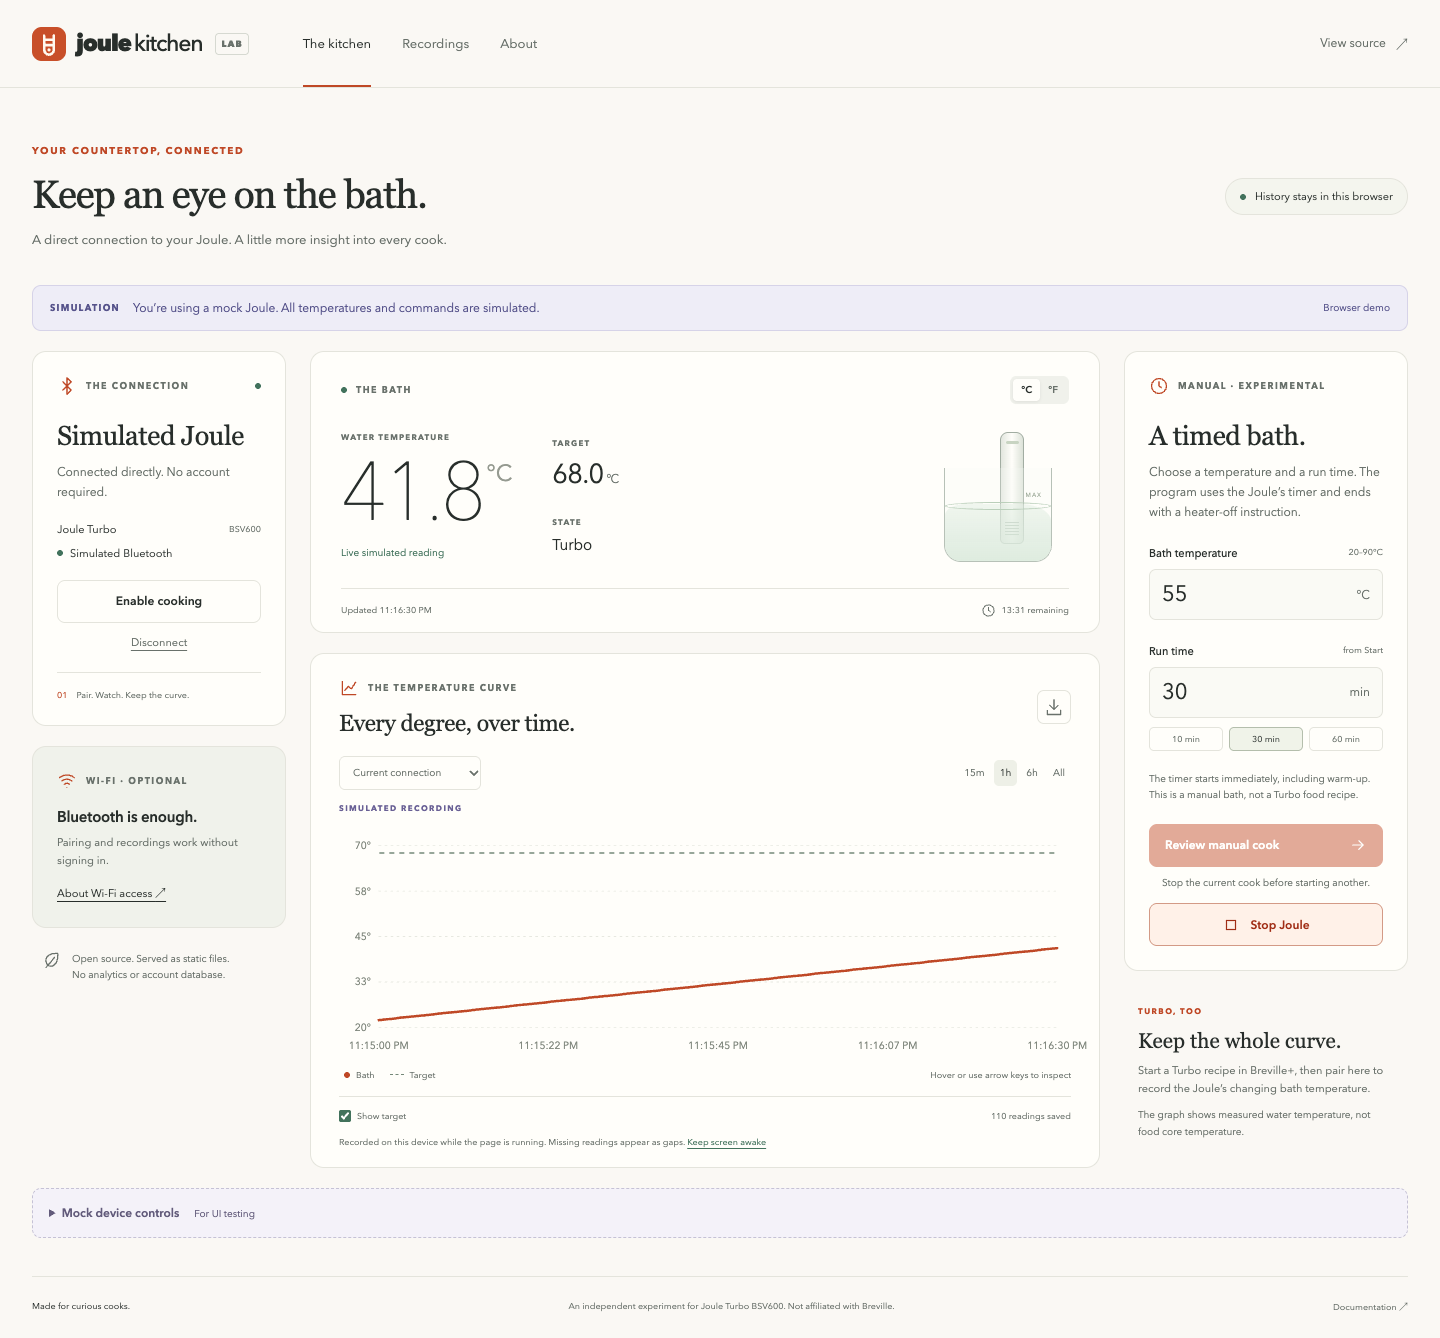
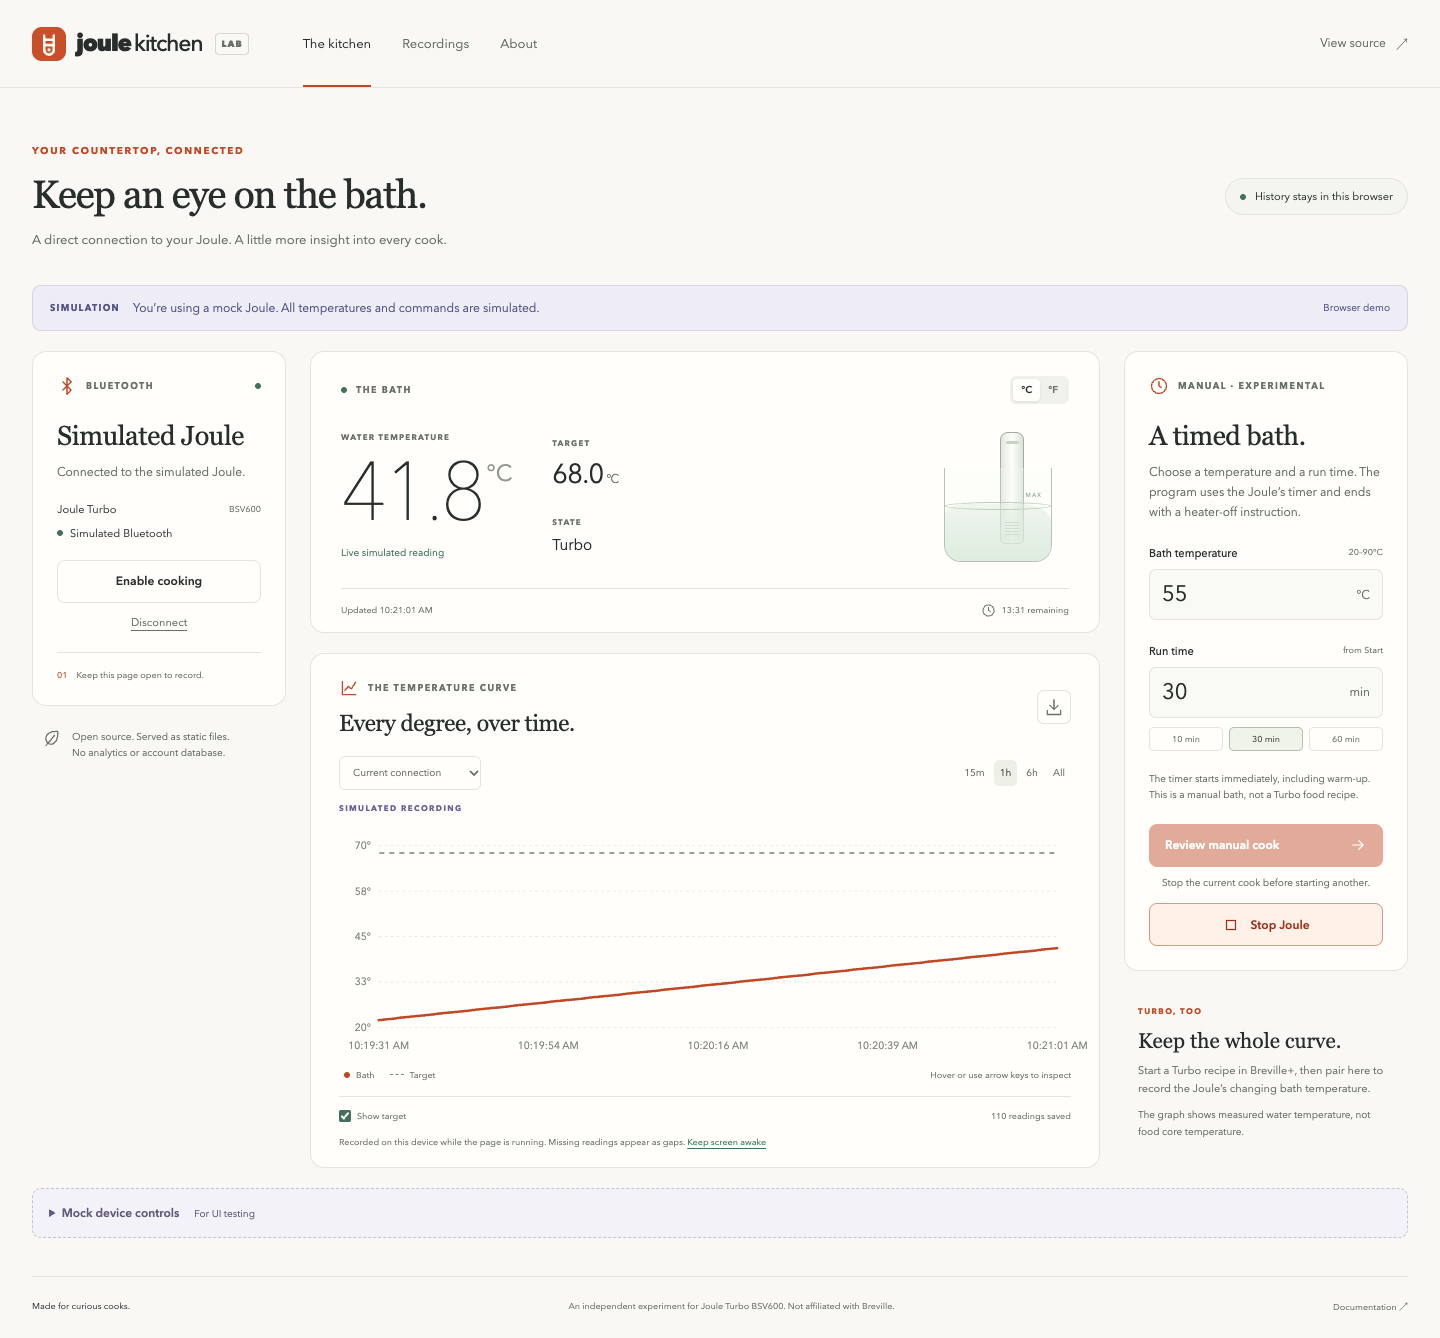
Show Bluetooth as the website connection method

diff --git a/src/App.tsx b/src/App.tsx
@@ -27,16 +27,7 @@ function Icon({
   size = 20,
 }: {
   name:
-    | 'bluetooth'
-    | 'chart'
-    | 'arrow'
-    | 'download'
-    | 'stop'
-    | 'clock'
-    | 'close'
-    | 'check'
-    | 'wifi'
-    | 'leaf';
+    'bluetooth' | 'chart' | 'arrow' | 'download' | 'stop' | 'clock' | 'close' | 'check' | 'leaf';
   size?: number;
 }) {
   const paths = {
@@ -48,7 +39,6 @@ function Icon({
     clock: 'M12 7v5l3 2M21 12a9 9 0 1 1-18 0 9 9 0 0 1 18 0',
     close: 'm6 6 12 12M6 18 18 6',
     check: 'm5 12 4 4L19 6',
-    wifi: 'M3 8a14 14 0 0 1 18 0M6 12a9 9 0 0 1 12 0M9 16a4 4 0 0 1 6 0M12 20h.01',
     leaf: 'M20 3C8 2 2 9 6 16s15 3 14-13ZM5 21 16 8',
   };
   return (
@@ -92,7 +82,6 @@ export default function App() {
   const [minutes, setMinutes] = useState(30);
   const [reviewing, setReviewing] = useState(false);
   const [waterConfirmed, setWaterConfirmed] = useState(false);
-  const [cloudOpen, setCloudOpen] = useState(false);
   const [aboutOpen, setAboutOpen] = useState(false);
   const [deleteOpen, setDeleteOpen] = useState(false);
   const [mock, setMock] = useState<MockWire | null>(null);
@@ -355,7 +344,7 @@ export default function App() {
             <section className="card connection-card" aria-labelledby="connection-title">
               <div className="card-kicker">
                 <Icon name="bluetooth" />
-                <span>THE CONNECTION</span>
+                <span>BLUETOOTH</span>
                 <span className={`status-dot ${connected ? 'online' : ''}`} />
               </div>
               <h2 id="connection-title">
@@ -367,8 +356,10 @@ export default function App() {
               </h2>
               <p>
                 {connected
-                  ? 'Connected directly. No account required.'
-                  : 'Pair your Joule Turbo over Bluetooth to see what’s happening in the water.'}
+                  ? simulation
+                    ? 'Connected to the simulated Joule.'
+                    : 'Connected over Bluetooth. No sign-in needed.'
+                  : 'Pair your nearby Joule Turbo over Bluetooth to see live water temperature. No sign-in needed.'}
               </p>
               {!connected && !connecting && (
                 <>
@@ -418,7 +409,7 @@ export default function App() {
                     </span>
                     <span>
                       <span className="green-dot" />
-                      {simulation ? 'Simulated Bluetooth' : 'Web Bluetooth'}
+                      {simulation ? 'Simulated Bluetooth' : 'Bluetooth'}
                     </span>
                   </div>
                   {state.proximity !== 2 && (
@@ -456,21 +447,10 @@ export default function App() {
               )}
               <div className="connection-footer">
                 <span>01</span>
-                <span>Pair. Watch. Keep the curve.</span>
+                <span>Keep this page open to record.</span>
               </div>
             </section>
 
-            <section className="card cloud-card">
-              <div className="card-kicker">
-                <Icon name="wifi" />
-                <span>WI-FI · OPTIONAL</span>
-              </div>
-              <h3>Bluetooth is enough.</h3>
-              <p>Pairing and recordings work without signing in.</p>
-              <button className="text-button" onClick={() => setCloudOpen(true)}>
-                About Wi-Fi access <span aria-hidden="true">↗</span>
-              </button>
-            </section>
             <div className="quiet-note">
               <Icon name="leaf" size={19} />
               <p>
@@ -875,36 +855,14 @@ export default function App() {
           Back to the kitchen
         </button>
       </dialog>
-      {cloudOpen && (
-        <InfoModal title="Wi-Fi is optional." close={() => setCloudOpen(false)}>
-          <p>
-            Bluetooth pairing, live temperature and browser recordings do not need a Breville
-            account.
-          </p>
-          <p>
-            Wi-Fi sign-in is not available in this static build. Breville’s current control API does
-            not permit the browser requests this app needs, and its live connection uses
-            authorization headers that browser WebSockets cannot set.
-          </p>
-          <p>
-            A supported browser login or an authenticated companion service is still needed for
-            Wi-Fi controls. This site does not collect your Breville password.
-          </p>
-          <p>
-            Account history returned cook summaries in testing, not recorded temperature curves.
-            Your curves here come from the live readings saved in this browser.
-          </p>
-        </InfoModal>
-      )}
       {aboutOpen && (
         <InfoModal title="Your kitchen, in your browser." close={() => setAboutOpen(false)}>
           <p>
-            Joule Kitchen is a static React app. Bluetooth connects this browser directly to a Joule
-            Turbo BSV600. No application server sits between them.
+            Joule Kitchen connects this browser directly to your Joule Turbo BSV600 over Bluetooth.
           </p>
           <p>
-            Recordings stay in IndexedDB on this browser and device. Export CSV to keep a copy.
-            Clearing site data removes recordings; signing into Breville does not synchronize them.
+            Recordings stay in this browser on this device. Export CSV to keep a copy. Clearing site
+            data removes recordings.
           </p>
           <p>
             Keep this page open to record. A sleeping device, background tab or lost connection can
@@ -912,7 +870,7 @@ export default function App() {
           </p>
           <p>
             The manual controller is experimental and uses a timed program for firmware 1.9.23 /
-            2.5.2. Native Turbo recipe compilation and browser Wi-Fi sign-in are not implemented.
+            2.5.2. Native Turbo recipes are not supported here.
           </p>
           <a className="button secondary" href={SOURCE} target="_blank" rel="noreferrer">
             Source, tests &amp; protocol notes ↗

diff --git a/src/style.css b/src/style.css
@@ -208,7 +208,6 @@ h1 {
   min-width: 0;
 }
 .connection-card,
-.cloud-card,
 .cook-card {
   padding: 24px;
 }
@@ -310,20 +309,6 @@ h1 {
   color: var(--accent);
   font-variant-numeric: tabular-nums;
 }
-.cloud-card {
-  background: #f0f2eb;
-}
-.cloud-card h3 {
-  font-size: 15px;
-  font-weight: 600;
-  letter-spacing: -0.2px;
-  margin-top: 16px;
-}
-.cloud-card p {
-  font-size: 11px;
-  color: var(--muted);
-  margin-top: 7px;
-}
 .text-button {
   border: 0;
   background: none;
@@ -332,9 +317,6 @@ h1 {
   text-align: left;
   text-decoration: underline;
   text-underline-offset: 4px;
-}
-.cloud-card .text-button {
-  margin-top: 14px;
 }
 .quiet-note {
   display: flex;
@@ -1296,11 +1278,8 @@ h1 {
     grid-template-columns: 1fr 1fr;
     gap: 10px;
   }
-  .cloud-card {
-    order: 3;
-  }
   .quiet-note {
-    order: 4;
+    order: 3;
   }
   .bath-illustration {
     transform: scale(1);

diff --git a/tests/ui/kitchen.spec.ts b/tests/ui/kitchen.spec.ts
@@ -31,10 +31,11 @@ test('static landing does not connect or start anything; mobile layout stays ins
   expect(
     await page.evaluate(() => document.documentElement.scrollWidth <= window.innerWidth + 1),
   ).toBe(true);
-  await page.getByRole('button', { name: 'About Wi-Fi access' }).click();
-  await expect(page.getByRole('dialog')).toContainText(
-    'Wi-Fi sign-in is not available in this static build',
-  );
+  await expect(
+    page.locator('.connection-card').getByText('BLUETOOTH', { exact: true }),
+  ).toBeVisible();
+  await expect(page.getByRole('button', { name: 'Pair Joule' })).toBeVisible();
+  await expect(page.getByRole('button', { name: 'About Wi-Fi access' })).toHaveCount(0);
   expect(await page.locator('input[type=password]').count()).toBe(0);
   expect(errors).toEqual([]);
 });

diff --git a/README.md b/README.md
@@ -43,7 +43,7 @@ server, telemetry service, or cloud database is required for Bluetooth.
 | Manual timed cook and Stop                                | Protocol implemented and tested against the mock; real-device status is in [TESTING.md](docs/TESTING.md) |
 | Record an existing Turbo cook                             | Uses reported native mode and measured bath readings                                                     |
 | Compile/start a native Turbo food recipe entirely offline | Not implemented; food/geometry coefficients and recipe compilation need separate validation              |
-| Wi-Fi sign-in from a static browser app                   | Not available yet; see below                                                                             |
+| Wi-Fi sign-in from a static browser app                   | Not supported by this website; see below                                                                 |
 | First-time Wi-Fi provisioning, legacy Joule models        | Not implemented                                                                                          |
 | Pump-only, heater-disabled circulation, 0–1°C cooking     | Not implemented; manual range is 20–90°C                                                                 |
 | Background recording after the browser closes             | Not available; keep the page running                                                                     |
@@ -71,10 +71,11 @@ The graph measures **water**, not food core temperature or doneness.
 The appliance owns a submitted program: closing the site does not stop it.
 If Stop cannot be confirmed, check the Joule and unplug it if it is still running.
 
-### Optional Wi-Fi access
+### Bluetooth connection
 
-Bluetooth does not ask for a login. The UI explains Wi-Fi's current limitation
-and does not present a nonfunctional password form.
+This website connects over Bluetooth without a login. Select **Pair Joule**
+to connect to a nearby appliance. Wi-Fi control is not supported by this
+website, so the interface presents Bluetooth as its connection method.
 
 The investigated Breville control API rejects the cross-origin preflight
 needed by this site. Its verified live WebSocket connection also requires
